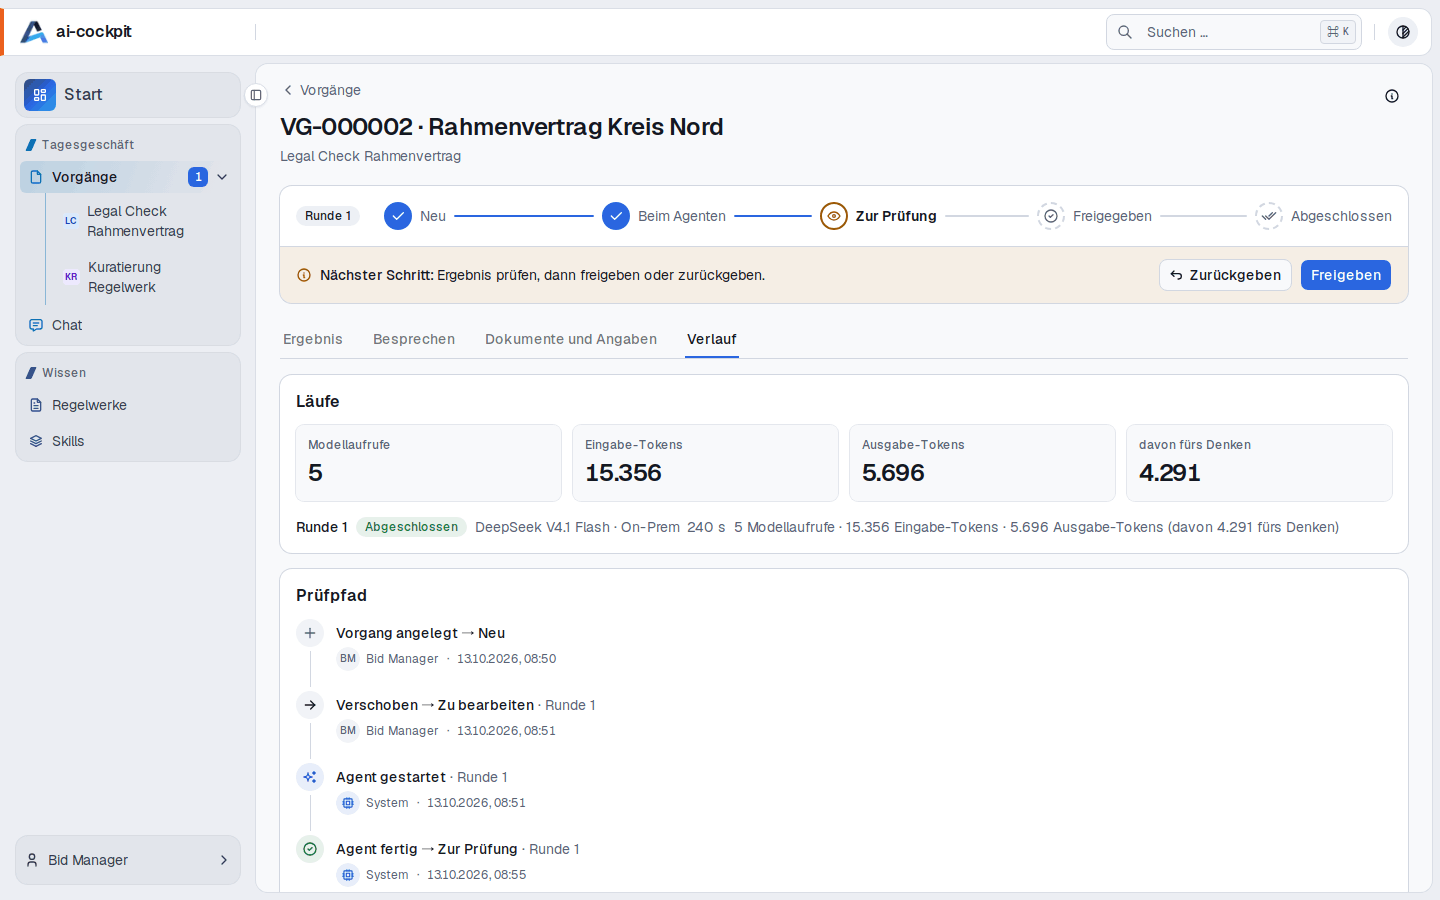
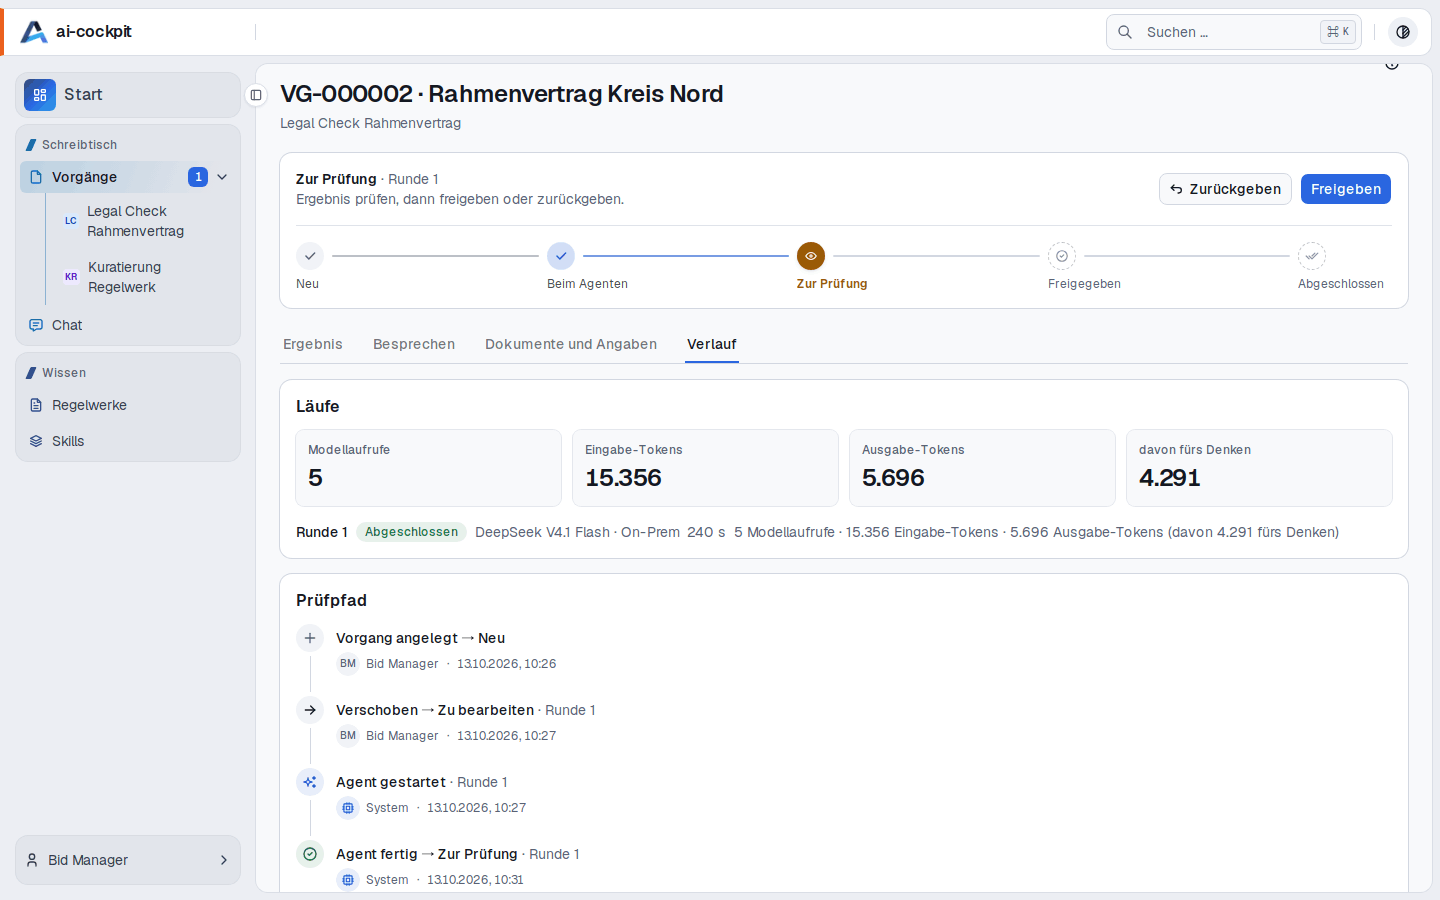
Case page with stage steps; documents in the original and as read text; new screenshots

diff --git a/features.html b/features.html
@@ -84,17 +84,18 @@
           <div>
             <p class="eyebrow">Prüfergebnis</p>
             <h2>Ein Ergebnis, das sich überprüfen lässt.</h2>
-            <p>Oben steht, was herausgekommen ist und was zu tun ist – nach Maßnahmen geordnet. Jeder Befund belegt seine Aussage mit einem wörtlichen Zitat aus dem Dokument. Aus denselben Daten entsteht der Prüfbericht in Ihrer Word-Vorlage.</p>
+            <p>Jeder Vorgang zeigt oben, wo er steht: seine Stufen von „Neu“ bis „Abgeschlossen“ und was jetzt zu tun ist. Darunter steht, was herausgekommen ist – nach Maßnahmen geordnet. Jeder Befund belegt seine Aussage mit einem wörtlichen Zitat aus dem Dokument. Aus denselben Daten entsteht der Prüfbericht in Ihrer Word-Vorlage.</p>
             <ul class="checks">
               <li>Eine Rückgabe mit Hinweis startet die nächste Runde</li>
               <li>Was der Agent nicht klären konnte, wird ausgewiesen</li>
+              <li>Jedes Dokument im Original und als der Text, den der Agent gelesen hat</li>
               <li>Zu jedem Lauf: Modell, Dauer und Verbrauch</li>
             </ul>
           </div>
           <figure>
             <div class="shot">
               <div class="shot-bar" aria-hidden="true"><i></i><i></i><i></i><span>ai-cockpit · Ergebnis</span></div>
-              <img src="assets/img/result.png" width="1440" height="900" loading="lazy" alt="Das Prüfergebnis: alle Bewertungen auf einen Blick und der nächste Schritt" />
+              <img src="assets/img/result.png" width="1440" height="900" loading="lazy" alt="Ein Vorgang: oben sein Stand mit den Stufen, darunter das Prüfergebnis" />
             </div>
           </figure>
         </div>
